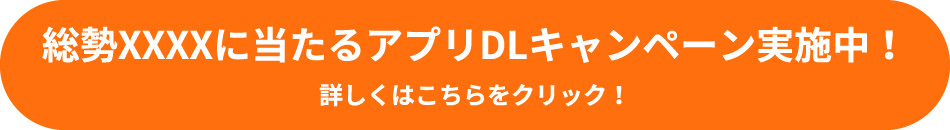
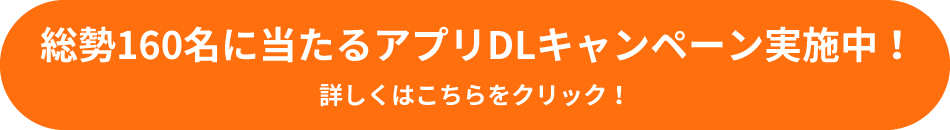
Improvements.

Changed region(s): [[0.0305, 0.1846, 0.9463, 0.4923], [0.3358, 0.6462, 0.6411, 0.8308]]

diff --git a/index.html b/index.html
@@ -70,8 +70,8 @@
               >
                 <iframe
                   class="w-full h-full rounded-[40px]"
-                  src="https://www.youtube.com/embed/VbF3lmZ-wY4?autoplay=1&mute=1&loop=1&playlist=VbF3lmZ-wY4"
-                  title="【フリー素材】 エフェクト背景 球 - Effect BG Sphere [Free Footage]"
+                  src="https://www.youtube.com/embed/6fqKUnFSmBc?autoplay=1&mute=1"
+                  title="いわくなしスポットを巡る「スーパーホテル編」"
                   frameborder="0"
                   allow="accelerometer; autoplay; clipboard-write; encrypted-media; gyroscope; picture-in-picture; web-share"
                   allowfullscreen
@@ -212,14 +212,24 @@
               class="flex 750:flex-col-reverse items-center gap-[40px] 750:gap-[20px]"
             >
               <div class="flex-1 flex flex-col gap-[20px]">
-                <h2 class="flex flex-col text-[30px]">
+                <h2 class="flex flex-col text-[30px] 750:hidden">
                   <b>8種類の枕から</b>
                   <div>
-                    <b class="border-b-[4px] border-[#FFDC6C]"
-                      >自分に合ったもの</b
-                    >
+                    <b class="border-b-[4px] border-[#FFDC6C]">
+                      自分に合ったもの
+                    </b>
                     <b>をお選び頂けます</b>
                   </div>
+                </h2>
+                <h2 class="hidden 750:flex flex-col text-[30px]">
+                  <b>8種類の枕から</b>
+                  <div>
+                    <b class="border-b-[4px] border-[#FFDC6C]">
+                      自分に合ったもの
+                    </b>
+                    <b>を</b>
+                  </div>
+                  <b>お選び頂けます</b>
                 </h2>
                 <div>
                   <p>
@@ -267,7 +277,7 @@
             >
               <div class="flex-1 flex flex-col relative">
                 <div
-                  class="w-[40%] absolute bottom-[-30%] 750:bottom-[-25%] right-[50%] 750:right-[60%] z-[1]"
+                  class="w-[40%] absolute bottom-[-30%] 750:bottom-[-15%] right-[50%] 750:right-[60%] z-[1]"
                 >
                   <img src="./assets/images/circle.png" />
                 </div>
@@ -276,9 +286,19 @@
                 </div>
               </div>
               <div class="flex-1 flex flex-col gap-[20px]">
-                <h2 class="flex flex-col text-[30px]">
+                <h2 class="flex flex-col text-[30px] 750:hidden">
                   <div>
                     <b>天然温泉で</b>
+                    <b class="border-b-[4px] border-[#FFDC6C]">
+                      本物の心地よさ
+                    </b>
+                    <b>と</b>
+                  </div>
+                  <b>リラックスを</b>
+                </h2>
+                <h2 class="hidden 750:flex flex-col text-[30px]">
+                  <b>天然温泉で</b>
+                  <div>
                     <b class="border-b-[4px] border-[#FFDC6C]">
                       本物の心地よさ
                     </b>
@@ -323,12 +343,21 @@
               class="flex 750:flex-col-reverse items-center gap-[40px] 750:gap-[20px]"
             >
               <div class="flex-1 flex flex-col gap-[20px]">
-                <h2 class="flex flex-col text-[30px]">
-                  <b>オーガニックでヘルシーな朝食で </b>
+                <h2 class="flex flex-col text-[30px] 750:hidden">
+                  <b>オーガニックでヘルシーな朝食で</b>
                   <div>
-                    <b class="border-b-[4px] border-[#FFDC6C]"
-                      >エネルギッシュな朝を</b
-                    >
+                    <b class="border-b-[4px] border-[#FFDC6C]">
+                      エネルギッシュな朝を
+                    </b>
+                  </div>
+                </h2>
+                <h2 class="hidden 750:flex flex-col text-[30px]">
+                  <b>オーガニックで</b>
+                  <b>ヘルシーな朝食で</b>
+                  <div>
+                    <b class="border-b-[4px] border-[#FFDC6C]">
+                      エネルギッシュな朝を
+                    </b>
                   </div>
                 </h2>
                 <div>
@@ -384,8 +413,17 @@
                 </div>
               </div>
               <div class="flex-1 flex flex-col gap-[20px]">
-                <h2 class="flex flex-col text-[30px]">
+                <h2 class="flex flex-col text-[30px] 750:hidden">
                   <b>エコとスマートさを追求した</b>
+                  <div>
+                    <b class="border-b-[4px] border-[#FFDC6C]">
+                      宿泊システム
+                    </b>
+                  </div>
+                </h2>
+                <h2 class="hidden 750:flex flex-col text-[30px]">
+                  <b>エコとスマートさを</b>
+                  <b>追求した</b>
                   <div>
                     <b class="border-b-[4px] border-[#FFDC6C]">
                       宿泊システム
@@ -446,7 +484,7 @@
         <!-- Campaign Section Start -->
         <section class="py-[40px]" id="campaign">
           <div
-            class="bg-[#F9F1E8] rounded-[30px] w-[60%] 750:w-[90%] mx-auto p-[40px] flex flex-col gap-[40px]"
+            class="bg-[#F9F1E8] rounded-[30px] w-[60%] 750:w-[90%] mx-auto p-[40px] 750:p-[20px] flex flex-col gap-[40px]"
           >
             <div>
               <img
@@ -459,6 +497,108 @@
               />
             </div>
             <div class="h-[1px] bg-[#EADCCE]"></div>
+            <div class="flex flex-col gap-[20px]">
+              <b
+                class="text-center mx-auto max-w-max bg-[#FF6F0D] text-[#fff] px-[20px] 750:px-[10px] py-[10px] text-[24px] flex items-center justify-center flex-wrap"
+              >
+                <span>合計160名様に</span>
+                <span> オリジナルグッズが当たる！ </span>
+              </b>
+              <div class="flex flex-col gap-[20px] max-w-max mx-auto">
+                <div class="flex items-center gap-[20px] 750:gap-[10px]">
+                  <div
+                    class="bg-[#FFDC6C] text-[#FF6F0D] text-[24px] font-bold rounded-full w-[40px] min-w-[40px] h-[40px] flex items-center justify-center"
+                  >
+                    A
+                  </div>
+                  <div>
+                    <b class="text-[24px] 750:text-[22px]">無料宿泊券</b>
+                    <b class="text-[18px] 750:text-[16px]">（30名様）</b>
+                  </div>
+                </div>
+                <div class="flex items-center gap-[20px] 750:gap-[10px]">
+                  <div
+                    class="bg-[#FFDC6C] text-[#FF6F0D] text-[24px] font-bold rounded-full w-[40px] min-w-[40px] h-[40px] flex items-center justify-center"
+                  >
+                    B
+                  </div>
+                  <div>
+                    <b class="text-[24px] 750:text-[22px]"
+                      >超ぐっすりパジャマ</b
+                    >
+                    <b class="text-[18px] 750:text-[16px]">（10名様）</b>
+                  </div>
+                </div>
+                <div class="flex items-center gap-[20px] 750:gap-[10px]">
+                  <div
+                    class="bg-[#FFDC6C] text-[#FF6F0D] text-[24px] font-bold rounded-full w-[40px] min-w-[40px] h-[40px] flex items-center justify-center"
+                  >
+                    C
+                  </div>
+                  <div>
+                    <b class="text-[24px] 750:text-[22px]">選べる枕</b>
+                    <b class="text-[18px] 750:text-[16px]">（10名様）</b>
+                  </div>
+                </div>
+                <div class="flex items-center gap-[20px] 750:gap-[10px]">
+                  <div
+                    class="bg-[#FFDC6C] text-[#FF6F0D] text-[24px] font-bold rounded-full w-[40px] min-w-[40px] h-[40px] flex items-center justify-center"
+                  >
+                    D
+                  </div>
+                  <div>
+                    <b class="text-[24px] 750:text-[22px]"
+                      >バスアメニティー2本セット</b
+                    >
+                    <b class="text-[18px] 750:text-[16px]">（10名様）</b>
+                  </div>
+                </div>
+              </div>
+            </div>
+            <div class="flex flex-col max-w-max mx-auto">
+              <b class="text-[20px]">
+                A～Dのいずれかご希望の商品にご応募いただけます。
+              </b>
+              <b class="text-[20px]">
+                落選した方の中から抽選で、ご宿泊時にキャッシュバックで使える最大
+              </b>
+              <b class="text-[20px]">
+                <span> 10,000ポイント（10,000円分）が100名様に当たる</span>
+                <span class="inline-flex relative">
+                  <span class="z-[2]">Wチャンス！</span>
+                  <span
+                    class="absolute inset-x-0 bottom-[4px] h-[6px] bg-[#FFDC6C] z-[1]"
+                  ></span>
+                </span>
+              </b>
+              <b class="text-[16px] flex flex-wrap mt-[10px]">
+                <span> 10,000pt（5名様）、</span>
+                <span> 5,000pt（15名様）、</span>
+                <span> 3,000pt（20名様）、</span>
+                <span> 1,000pt（60名様）</span>
+              </b>
+              <div class="bg-[#fff] p-[20px] flex flex-col mt-[40px]">
+                <b class="text-[16px] text-[#F7421E] mb-[20px]">注意事項</b>
+                <span class="text-[14px]">
+                  応募は公式アプリ（iOS/Android）の専用フォームのみ可能です。
+                </span>
+                <span class="text-[14px]">
+                  応募には無料会員登録が必要です。
+                </span>
+                <span class="text-[14px]">
+                  会員登録いただいたご住所へ当選商品を発送いたします。
+                </span>
+                <span class="text-[14px]">
+                  ※すでに会員の方は登録住所に誤りがないかご確認ください。
+                </span>
+                <span class="text-[14px]">
+                  当選は商品の発送、ポイントの付与をもってかえさせていただきます。
+                </span>
+                <span class="text-[14px]">
+                  発送及びポイント付与時に退会されていると当選無効となります。
+                </span>
+              </div>
+            </div>
             <div class="flex flex-col gap-[10px] text-[24px] 750:text-[18px]">
               <b class="text-center">＜応募方法＞</b>
               <div class="flex flex-col gap-[5px] max-w-max mx-auto">
@@ -507,7 +647,7 @@
             <div class="mx-auto">
               <img src="./assets/images/footer-heading.svg" class="w-[400px]" />
             </div>
-            <div class="mx-auto w-[500px]">
+            <div class="mx-auto w-[500px] 550:w-full">
               <img src="./assets/images/adv.png" />
             </div>
             <div class="flex items-center justify-center gap-[20px]">
